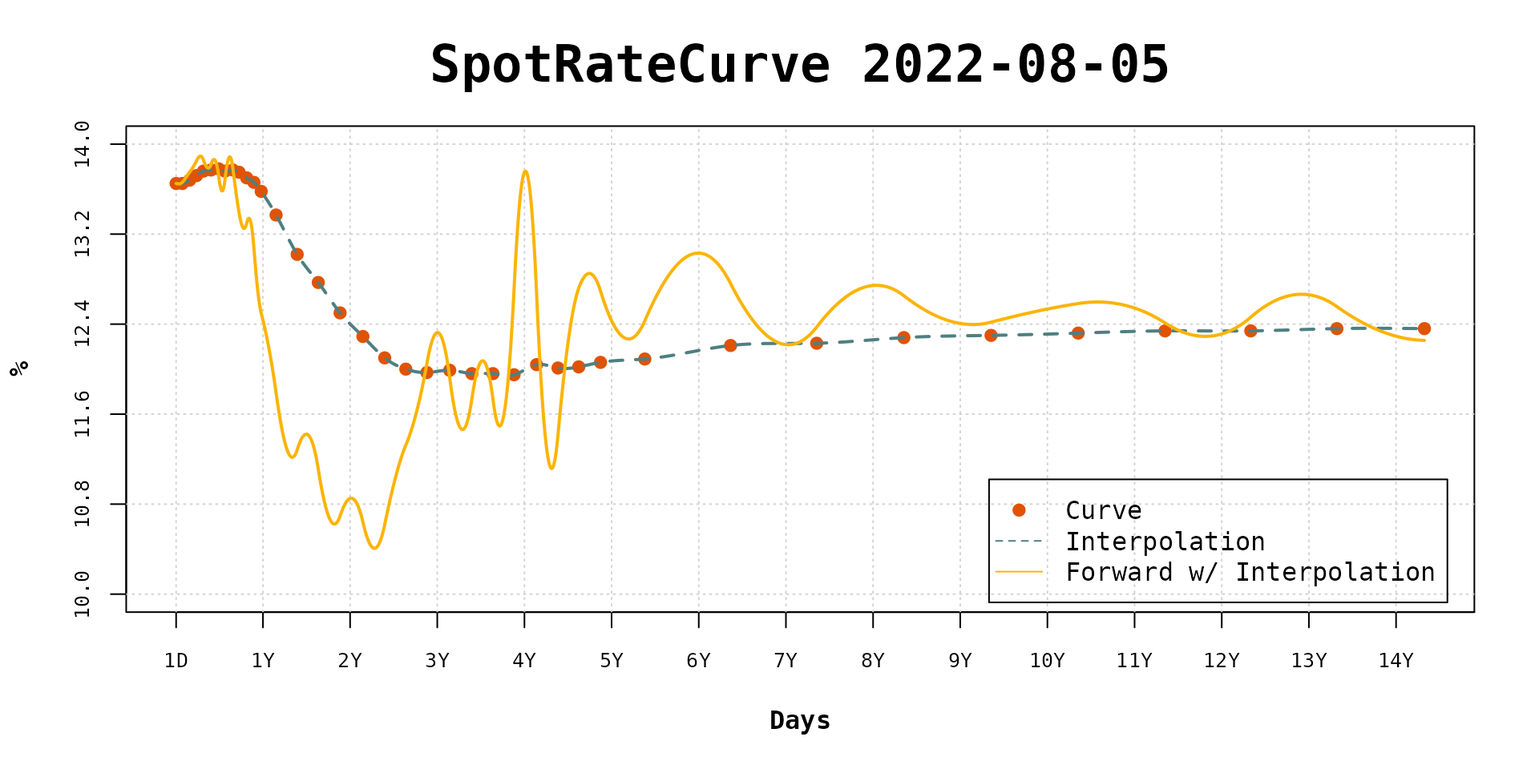
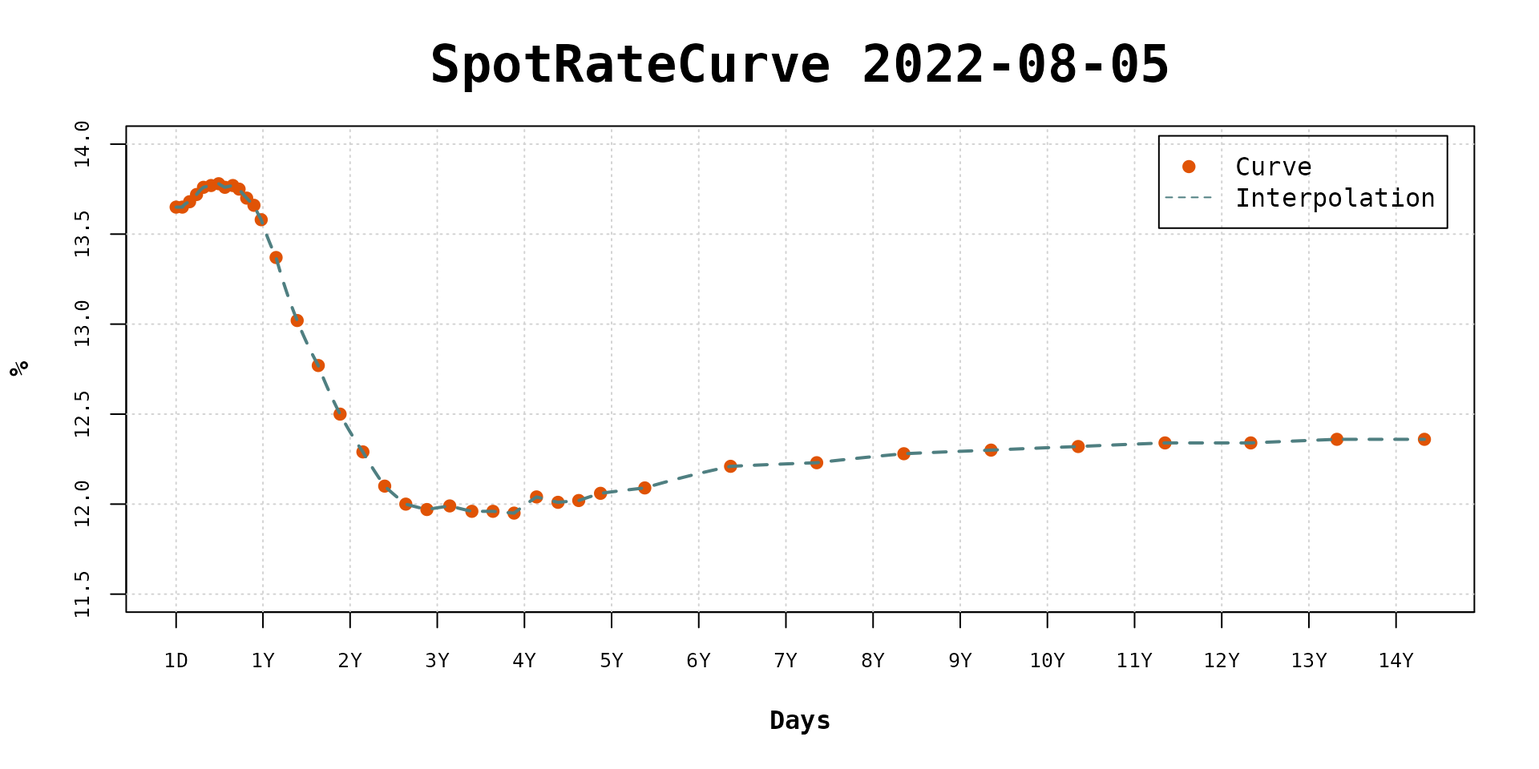
Deploying to gh-pages from @ wilsonfreitas/R-fixedincome@a56da4bb95baab74bc7aa71b4ea9df1efd53c39d 🚀

diff --git a/articles/spot-rate-curve-interpolation.html b/articles/spot-rate-curve-interpolation.html
@@ -246,11 +246,41 @@ previously.</p>
 <span><span class="co">#&gt; Reference date: 2022-08-05</span></span></code></pre></div>
 </div>
 <div class="section level2">
+<h2 id="shift-the-curve-with-basis-points">Shift the curve with basis points<a class="anchor" aria-label="anchor" href="#shift-the-curve-with-basis-points"></a>
+</h2>
+<p>A basis point (bp) is 0.01%, and rate changes are usually given in
+basis points. <code><a href="../reference/bps.html">bps()</a></code> creates basis points, and adding them
+to the curve shifts all its rates. The result is still a spot rate curve
+with the same terms and interpolation, so the interpolated rates also
+move.</p>
+<div class="sourceCode" id="cb8"><pre class="downlit sourceCode r">
+<code class="sourceCode R"><span><span class="va">shifted</span> <span class="op">&lt;-</span> <span class="va">sp_curve</span> <span class="op">+</span> <span class="fu"><a href="../reference/bps.html">bps</a></span><span class="op">(</span><span class="fl">50</span><span class="op">)</span></span>
+<span><span class="va">shifted</span><span class="op">[[</span><span class="fu"><a href="https://rdrr.io/r/base/c.html" class="external-link">c</a></span><span class="op">(</span><span class="fl">21</span>, <span class="fl">42</span>, <span class="fl">63</span><span class="op">)</span><span class="op">]</span><span class="op">]</span></span>
+<span><span class="co">#&gt;         SpotRateCurve</span></span>
+<span><span class="co">#&gt; 21 days        0.1415</span></span>
+<span><span class="co">#&gt; 42 days        0.1418</span></span>
+<span><span class="co">#&gt; 63 days        0.1423</span></span>
+<span><span class="co">#&gt; discrete business/252 Brazil/ANBIMA </span></span>
+<span><span class="co">#&gt; Reference date: 2022-08-05</span></span></code></pre></div>
+<p><code><a href="../reference/bps.html">as.bps()</a></code> shows the difference between two curves in
+basis points.</p>
+<div class="sourceCode" id="cb9"><pre class="downlit sourceCode r">
+<code class="sourceCode R"><span><span class="fu"><a href="../reference/bps.html">as.bps</a></span><span class="op">(</span><span class="va">shifted</span><span class="op">[[</span><span class="fu"><a href="https://rdrr.io/r/base/c.html" class="external-link">c</a></span><span class="op">(</span><span class="fl">21</span>, <span class="fl">42</span>, <span class="fl">63</span><span class="op">)</span><span class="op">]</span><span class="op">]</span> <span class="op">-</span> <span class="va">sp_curve</span><span class="op">[[</span><span class="fu"><a href="https://rdrr.io/r/base/c.html" class="external-link">c</a></span><span class="op">(</span><span class="fl">21</span>, <span class="fl">42</span>, <span class="fl">63</span><span class="op">)</span><span class="op">]</span><span class="op">]</span><span class="op">)</span></span>
+<span><span class="co">#&gt; [1] "50 bps" "50 bps" "50 bps"</span></span></code></pre></div>
+<p>A vector of basis points, one for each term, changes the shape of the
+curve. Here the short rates don’t move, and the long rates go up by up
+to 100 bps.</p>
+<div class="sourceCode" id="cb10"><pre class="downlit sourceCode r">
+<code class="sourceCode R"><span><span class="va">steeper</span> <span class="op">&lt;-</span> <span class="va">sp_curve</span> <span class="op">+</span> <span class="fu"><a href="../reference/bps.html">bps</a></span><span class="op">(</span><span class="fu"><a href="https://rdrr.io/r/base/seq.html" class="external-link">seq</a></span><span class="op">(</span><span class="fl">0</span>, <span class="fl">100</span>, length.out <span class="op">=</span> <span class="fu"><a href="https://rdrr.io/r/base/length.html" class="external-link">length</a></span><span class="op">(</span><span class="va">sp_curve</span><span class="op">)</span><span class="op">)</span><span class="op">)</span></span>
+<span><span class="fu"><a href="../reference/bps.html">as.bps</a></span><span class="op">(</span><span class="va">steeper</span> <span class="op">-</span> <span class="va">sp_curve</span><span class="op">)</span><span class="op">[</span><span class="fu"><a href="https://rdrr.io/r/base/c.html" class="external-link">c</a></span><span class="op">(</span><span class="fl">1</span>, <span class="fu"><a href="https://rdrr.io/r/base/length.html" class="external-link">length</a></span><span class="op">(</span><span class="va">sp_curve</span><span class="op">)</span><span class="op">)</span><span class="op">]</span></span>
+<span><span class="co">#&gt; [1] "0 bps"   "100 bps"</span></span></code></pre></div>
+</div>
+<div class="section level2">
 <h2 id="unset-interpolation">Unset interpolation<a class="anchor" aria-label="anchor" href="#unset-interpolation"></a>
 </h2>
 <p>Set interpolation to <code>NULL</code> to unset the
 interpolation.</p>
-<div class="sourceCode" id="cb8"><pre class="downlit sourceCode r">
+<div class="sourceCode" id="cb11"><pre class="downlit sourceCode r">
 <code class="sourceCode R"><span><span class="fu"><a href="../reference/interpolation.html">interpolation</a></span><span class="op">(</span><span class="va">sp_curve</span><span class="op">)</span> <span class="op">&lt;-</span> <span class="cn">NULL</span></span>
 <span><span class="va">sp_curve</span><span class="op">[[</span><span class="fu"><a href="https://rdrr.io/r/base/c.html" class="external-link">c</a></span><span class="op">(</span><span class="fl">21</span>, <span class="fl">42</span>, <span class="fl">63</span><span class="op">)</span><span class="op">]</span><span class="op">]</span></span>
 <span><span class="co">#&gt;         SpotRateCurve</span></span>
@@ -270,10 +300,10 @@ returned.</p>
 an argument <code>use_interpolation</code> that shows the interpolation
 together with the curve points. This argument defaults to
 <code>FALSE</code>.</p>
-<div class="sourceCode" id="cb9"><pre class="downlit sourceCode r">
+<div class="sourceCode" id="cb12"><pre class="downlit sourceCode r">
 <code class="sourceCode R"><span><span class="fu"><a href="../reference/interpolation.html">interpolation</a></span><span class="op">(</span><span class="va">sp_curve</span><span class="op">)</span> <span class="op">&lt;-</span> <span class="fu"><a href="../reference/interpolation-constructor.html">interp_flatforward</a></span><span class="op">(</span><span class="op">)</span></span>
 <span><span class="fu"><a href="https://rdrr.io/r/graphics/plot.default.html" class="external-link">plot</a></span><span class="op">(</span><span class="va">sp_curve</span>, use_interpolation <span class="op">=</span> <span class="cn">TRUE</span><span class="op">)</span></span></code></pre></div>
-<p><img src="spot-rate-curve-interpolation_files/figure-html/unnamed-chunk-10-1.png" class="r-plt" alt="" width="100%"></p>
+<p><img src="spot-rate-curve-interpolation_files/figure-html/unnamed-chunk-13-1.png" class="r-plt" alt="" width="100%"></p>
 <div class="section level3">
 <h3 id="forward-rates-with-and-without-interpolation-set">Forward rates with and without interpolation set<a class="anchor" aria-label="anchor" href="#forward-rates-with-and-without-interpolation-set"></a>
 </h3>
@@ -281,26 +311,26 @@ together with the curve points. This argument defaults to
 to calculate daily forward rates. Otherwise, it uses the forward rates
 between the curve terms. Set the <code>show_forward</code> argument to
 <code>TRUE</code> to show the forward rates.</p>
-<div class="sourceCode" id="cb10"><pre class="downlit sourceCode r">
+<div class="sourceCode" id="cb13"><pre class="downlit sourceCode r">
 <code class="sourceCode R"><span><span class="fu"><a href="../reference/interpolation.html">interpolation</a></span><span class="op">(</span><span class="va">sp_curve</span><span class="op">)</span> <span class="op">&lt;-</span> <span class="cn">NULL</span></span>
 <span><span class="fu"><a href="https://rdrr.io/r/graphics/plot.default.html" class="external-link">plot</a></span><span class="op">(</span><span class="va">sp_curve</span>, show_forward <span class="op">=</span> <span class="cn">TRUE</span>, legend_location <span class="op">=</span> <span class="st">"bottomright"</span><span class="op">)</span></span></code></pre></div>
-<p><img src="spot-rate-curve-interpolation_files/figure-html/unnamed-chunk-11-1.png" class="r-plt" alt="" width="100%"></p>
+<p><img src="spot-rate-curve-interpolation_files/figure-html/unnamed-chunk-14-1.png" class="r-plt" alt="" width="100%"></p>
 <p>The forward rates are drawn with step lines.</p>
 <p>If the <code>use_interpolation</code> argument is <code>TRUE</code>
 then the daily forward rates are calculated with the defined
 interpolation.</p>
-<div class="sourceCode" id="cb11"><pre class="downlit sourceCode r">
+<div class="sourceCode" id="cb14"><pre class="downlit sourceCode r">
 <code class="sourceCode R"><span><span class="fu"><a href="../reference/interpolation.html">interpolation</a></span><span class="op">(</span><span class="va">sp_curve</span><span class="op">)</span> <span class="op">&lt;-</span> <span class="fu"><a href="../reference/interpolation-constructor.html">interp_flatforward</a></span><span class="op">(</span><span class="op">)</span></span>
 <span><span class="fu"><a href="https://rdrr.io/r/graphics/plot.default.html" class="external-link">plot</a></span><span class="op">(</span><span class="va">sp_curve</span>, use_interpolation <span class="op">=</span> <span class="cn">TRUE</span>, show_forward <span class="op">=</span> <span class="cn">TRUE</span>, legend_location <span class="op">=</span> <span class="st">"bottomright"</span><span class="op">)</span></span></code></pre></div>
-<p><img src="spot-rate-curve-interpolation_files/figure-html/unnamed-chunk-12-1.png" class="r-plt" alt="" width="100%"></p>
+<p><img src="spot-rate-curve-interpolation_files/figure-html/unnamed-chunk-15-1.png" class="r-plt" alt="" width="100%"></p>
 <p>It is possible to note that the flat forward daily rates are fairly
 close to curve terms forward rates.</p>
 <p>As the interpolation changes its effects can be viewed in the forward
 rates dynamic.</p>
-<div class="sourceCode" id="cb12"><pre class="downlit sourceCode r">
+<div class="sourceCode" id="cb15"><pre class="downlit sourceCode r">
 <code class="sourceCode R"><span><span class="fu"><a href="../reference/interpolation.html">interpolation</a></span><span class="op">(</span><span class="va">sp_curve</span><span class="op">)</span> <span class="op">&lt;-</span> <span class="fu"><a href="../reference/interpolation-constructor.html">interp_naturalspline</a></span><span class="op">(</span><span class="op">)</span></span>
 <span><span class="fu"><a href="https://rdrr.io/r/graphics/plot.default.html" class="external-link">plot</a></span><span class="op">(</span><span class="va">sp_curve</span>, use_interpolation <span class="op">=</span> <span class="cn">TRUE</span>, show_forward <span class="op">=</span> <span class="cn">TRUE</span>, legend_location <span class="op">=</span> <span class="st">"bottomright"</span><span class="op">)</span></span></code></pre></div>
-<p><img src="spot-rate-curve-interpolation_files/figure-html/unnamed-chunk-13-1.png" class="r-plt" alt="" width="100%"></p>
+<p><img src="spot-rate-curve-interpolation_files/figure-html/unnamed-chunk-16-1.png" class="r-plt" alt="" width="100%"></p>
 </div>
 </div>
   </div>

diff --git a/reference/bps.html b/reference/bps.html
@@ -1,0 +1,153 @@
+<!DOCTYPE html>
+<!-- Generated by pkgdown: do not edit by hand --><html lang="en"><head><meta charset="UTF-8"><meta http-equiv="X-UA-Compatible" content="IE=edge"><meta name="viewport" content="width=device-width, initial-scale=1.0"><title>Basis points — bps • fixedincome</title><!-- favicons --><link rel="icon" type="image/png" sizes="48x48" href="../favicon-48x48.png"><link rel="icon" type="”image/svg+xml”" href="../favicon.svg"><link rel="apple-touch-icon" sizes="180x180" href="../apple-touch-icon.png"><link rel="icon" sizes="any" href="../favicon.ico"><link rel="manifest" href="../site.webmanifest"><!-- jquery --><script src="https://cdnjs.cloudflare.com/ajax/libs/jquery/3.7.1/jquery.min.js" integrity="sha512-v2CJ7UaYy4JwqLDIrZUI/4hqeoQieOmAZNXBeQyjo21dadnwR+8ZaIJVT8EE2iyI61OV8e6M8PP2/4hpQINQ/g==" crossorigin="anonymous" referrerpolicy="no-referrer"></script><!-- Bootstrap --><link href="https://cdnjs.cloudflare.com/ajax/libs/bootswatch/3.4.0/yeti/bootstrap.min.css" rel="stylesheet" crossorigin="anonymous"><script src="https://cdnjs.cloudflare.com/ajax/libs/twitter-bootstrap/3.4.1/js/bootstrap.min.js" integrity="sha256-nuL8/2cJ5NDSSwnKD8VqreErSWHtnEP9E7AySL+1ev4=" crossorigin="anonymous"></script><!-- bootstrap-toc --><link rel="stylesheet" href="../bootstrap-toc.css"><script src="../bootstrap-toc.js"></script><!-- Font Awesome icons --><link rel="stylesheet" href="https://cdnjs.cloudflare.com/ajax/libs/font-awesome/5.12.1/css/all.min.css" integrity="sha256-mmgLkCYLUQbXn0B1SRqzHar6dCnv9oZFPEC1g1cwlkk=" crossorigin="anonymous"><link rel="stylesheet" href="https://cdnjs.cloudflare.com/ajax/libs/font-awesome/5.12.1/css/v4-shims.min.css" integrity="sha256-wZjR52fzng1pJHwx4aV2AO3yyTOXrcDW7jBpJtTwVxw=" crossorigin="anonymous"><!-- clipboard.js --><script src="https://cdnjs.cloudflare.com/ajax/libs/clipboard.js/2.0.6/clipboard.min.js" integrity="sha256-inc5kl9MA1hkeYUt+EC3BhlIgyp/2jDIyBLS6k3UxPI=" crossorigin="anonymous"></script><!-- headroom.js --><script src="https://cdnjs.cloudflare.com/ajax/libs/headroom/0.11.0/headroom.min.js" integrity="sha256-AsUX4SJE1+yuDu5+mAVzJbuYNPHj/WroHuZ8Ir/CkE0=" crossorigin="anonymous"></script><script src="https://cdnjs.cloudflare.com/ajax/libs/headroom/0.11.0/jQuery.headroom.min.js" integrity="sha256-ZX/yNShbjqsohH1k95liqY9Gd8uOiE1S4vZc+9KQ1K4=" crossorigin="anonymous"></script><!-- pkgdown --><link href="../pkgdown.css" rel="stylesheet"><script src="../pkgdown.js"></script><meta property="og:title" content="Basis points — bps"><meta property="og:description" content="A basis point (bp) is 0.01%, or 0.0001.
+bps() creates a Bps object from a number of basis points, and
+as.bps() converts a rate difference, given as a decimal, to basis points.
+Bps extends numeric and keeps the value as a decimal, so
+as.numeric(bps(10)) is 0.001."><meta property="og:image" content="http://wilsonfreitas.github.io/R-fixedincome/logo.png"><!-- mathjax --><script src="https://cdnjs.cloudflare.com/ajax/libs/mathjax/2.7.5/MathJax.js" integrity="sha256-nvJJv9wWKEm88qvoQl9ekL2J+k/RWIsaSScxxlsrv8k=" crossorigin="anonymous"></script><script src="https://cdnjs.cloudflare.com/ajax/libs/mathjax/2.7.5/config/TeX-AMS-MML_HTMLorMML.js" integrity="sha256-84DKXVJXs0/F8OTMzX4UR909+jtl4G7SPypPavF+GfA=" crossorigin="anonymous"></script><!--[if lt IE 9]>
+<script src="https://oss.maxcdn.com/html5shiv/3.7.3/html5shiv.min.js"></script>
+<script src="https://oss.maxcdn.com/respond/1.4.2/respond.min.js"></script>
+<![endif]--></head><body data-spy="scroll" data-target="#toc">
+
+
+    <div class="container template-reference-topic">
+      <header><div class="navbar navbar-default navbar-fixed-top" role="navigation">
+  <div class="container">
+    <div class="navbar-header">
+      <button type="button" class="navbar-toggle collapsed" data-toggle="collapse" data-target="#navbar" aria-expanded="false">
+        <span class="sr-only">Toggle navigation</span>
+        <span class="icon-bar"></span>
+        <span class="icon-bar"></span>
+        <span class="icon-bar"></span>
+      </button>
+      <span class="navbar-brand">
+        <a class="navbar-link" href="../index.html">fixedincome</a>
+        <span class="version label label-default" data-toggle="tooltip" data-placement="bottom" title="">0.0.5</span>
+      </span>
+    </div>
+
+    <div id="navbar" class="navbar-collapse collapse">
+      <ul class="nav navbar-nav"><li>
+  <a href="../reference/index.html">Reference</a>
+</li>
+<li class="dropdown">
+  <a href="#" class="dropdown-toggle" data-toggle="dropdown" role="button" data-bs-toggle="dropdown" aria-expanded="false">
+    Articles
+
+    <span class="caret"></span>
+  </a>
+  <ul class="dropdown-menu" role="menu"><li>
+      <a href="../articles/spot-rate-curve-indexing.html">Spot Rate Curve Indexing</a>
+    </li>
+    <li>
+      <a href="../articles/spot-rate-curve-interpolation.html">Spot Rate Curve Interpolation</a>
+    </li>
+    <li>
+      <a href="../articles/spot-rate-curve-plotting.html">Plotting Spot Rate Curves</a>
+    </li>
+    <li>
+      <a href="../articles/term.html">Working with Terms</a>
+    </li>
+  </ul></li>
+<li>
+  <a href="../news/index.html">Changelog</a>
+</li>
+      </ul><ul class="nav navbar-nav navbar-right"><li>
+  <a href="https://github.com/wilsonfreitas/R-fixedincome/" class="external-link">
+    <span class="fab fa-github fa-lg"></span>
+
+  </a>
+</li>
+      </ul></div><!--/.nav-collapse -->
+  </div><!--/.container -->
+</div><!--/.navbar -->
+
+
+
+      </header><div class="row">
+  <div class="col-md-9 contents">
+    <div class="page-header">
+    <h1>Basis points</h1>
+    <small class="dont-index">Source: <a href="https://github.com/wilsonfreitas/R-fixedincome/blob/main/R/bps-class.R" class="external-link"><code>R/bps-class.R</code></a></small>
+    <div class="hidden name"><code>bps.Rd</code></div>
+    </div>
+
+    <div class="ref-description">
+    <p>A basis point (bp) is 0.01%, or 0.0001.
+<code>bps()</code> creates a <code>Bps</code> object from a number of basis points, and
+<code>as.bps()</code> converts a rate difference, given as a decimal, to basis points.
+<code>Bps</code> extends <code>numeric</code> and keeps the value as a decimal, so
+<code>as.numeric(bps(10))</code> is <code>0.001</code>.</p>
+    </div>
+
+    <div id="ref-usage">
+    <div class="sourceCode"><pre class="sourceCode r"><code><span><span class="fu">bps</span><span class="op">(</span><span class="va">x</span><span class="op">)</span></span>
+<span></span>
+<span><span class="fu">as.bps</span><span class="op">(</span><span class="va">x</span><span class="op">)</span></span></code></pre></div>
+    </div>
+
+    <div id="arguments">
+    <h2>Arguments</h2>
+
+
+<dl><dt id="arg-x">x<a class="anchor" aria-label="anchor" href="#arg-x"></a></dt>
+<dd><p>a numeric with the number of basis points (<code>bps()</code>), or a rate
+difference as a decimal, like a <code>SpotRate</code> spread (<code>as.bps()</code>).</p></dd>
+
+</dl></div>
+    <div id="value">
+    <h2>Value</h2>
+    <p>a <code>Bps</code> object.</p>
+    </div>
+    <div id="details">
+    <h2>Details</h2>
+    <p>Adding or subtracting basis points to a <code>SpotRate</code> (or a <code>SpotRateCurve</code>)
+returns the same object with the rates shifted; compounding, daycount,
+calendar, terms and interpolation are kept.
+Two <code>Bps</code> objects can be added or subtracted, and divided (returning a
+numeric). <code><a href="https://rdrr.io/r/base/c.html" class="external-link">c()</a></code> combines <code>Bps</code> objects.</p>
+    </div>
+
+    <div id="ref-examples">
+    <h2>Examples</h2>
+    <div class="sourceCode"><pre class="sourceCode r"><code><span class="r-in"><span><span class="fu">bps</span><span class="op">(</span><span class="fl">10</span><span class="op">)</span></span></span>
+<span class="r-out co"><span class="r-pr">#&gt;</span> [1] "10 bps"</span>
+<span class="r-in"><span><span class="fu"><a href="https://rdrr.io/r/base/numeric.html" class="external-link">as.numeric</a></span><span class="op">(</span><span class="fu">bps</span><span class="op">(</span><span class="fl">10</span><span class="op">)</span><span class="op">)</span></span></span>
+<span class="r-out co"><span class="r-pr">#&gt;</span> [1] 0.001</span>
+<span class="r-in"><span></span></span>
+<span class="r-in"><span><span class="va">sr</span> <span class="op">&lt;-</span> <span class="fu"><a href="spotrate.html">spotrate</a></span><span class="op">(</span><span class="fl">0.1375</span>, <span class="st">"discrete"</span>, <span class="st">"business/252"</span>, <span class="st">"Brazil/ANBIMA"</span><span class="op">)</span></span></span>
+<span class="r-in"><span><span class="va">sr</span> <span class="op">+</span> <span class="fu">bps</span><span class="op">(</span><span class="fl">10</span><span class="op">)</span></span></span>
+<span class="r-out co"><span class="r-pr">#&gt;</span> [1] "0.1385 discrete business/252 Brazil/ANBIMA"</span>
+<span class="r-in"><span><span class="va">sr</span> <span class="op">-</span> <span class="fu">bps</span><span class="op">(</span><span class="fu"><a href="https://rdrr.io/r/base/c.html" class="external-link">c</a></span><span class="op">(</span><span class="fl">10</span>, <span class="fl">25</span><span class="op">)</span><span class="op">)</span></span></span>
+<span class="r-out co"><span class="r-pr">#&gt;</span> [1] "0.1365 discrete business/252 Brazil/ANBIMA"</span>
+<span class="r-out co"><span class="r-pr">#&gt;</span> [2] "0.1350 discrete business/252 Brazil/ANBIMA"</span>
+<span class="r-in"><span></span></span>
+<span class="r-in"><span><span class="va">sr2</span> <span class="op">&lt;-</span> <span class="fu"><a href="spotrate.html">spotrate</a></span><span class="op">(</span><span class="fl">0.1325</span>, <span class="st">"discrete"</span>, <span class="st">"business/252"</span>, <span class="st">"Brazil/ANBIMA"</span><span class="op">)</span></span></span>
+<span class="r-in"><span><span class="fu">as.bps</span><span class="op">(</span><span class="va">sr</span> <span class="op">-</span> <span class="va">sr2</span><span class="op">)</span></span></span>
+<span class="r-out co"><span class="r-pr">#&gt;</span> [1] "50 bps"</span>
+<span class="r-in"><span></span></span>
+</code></pre></div>
+    </div>
+  </div>
+  <div class="col-md-3 hidden-xs hidden-sm" id="pkgdown-sidebar">
+    <nav id="toc" data-toggle="toc" class="sticky-top"><h2 data-toc-skip>Contents</h2>
+    </nav></div>
+</div>
+
+
+      <footer><div class="copyright">
+  <p></p><p>Developed by Wilson Freitas.</p>
+</div>
+
+<div class="pkgdown">
+  <p></p><p>Site built with <a href="https://pkgdown.r-lib.org/" class="external-link">pkgdown</a> 2.2.1.</p>
+</div>
+
+      </footer></div>
+
+
+
+
+
+
+  </body></html>
+

diff --git a/news/index.html b/news/index.html
@@ -73,6 +73,8 @@
 <code><a href="https://rdrr.io/r/base/c.html" class="external-link">c()</a></code> on <code>Term</code> objects keeps the units of each element; before, all elements took the units of the first one.</li>
 <li>Arithmetic (<code>+</code>, <code>-</code>, <code>%%</code>, <code>/</code>, <code>%/%</code>) and comparison between <code>Term</code> objects with the same units. Terms with different units raise an error asking to convert them first. (Issue <a href="https://github.com/wilsonfreitas/R-fixedincome/issues/28" class="external-link">#28</a>)</li>
 <li>New <code><a href="../reference/with_daycount.html">with_daycount()</a></code> evaluates operations between <code>Term</code> objects with different units using a daycount, e.g. <code>with_daycount("business/252", term(1, "month") + term(12, "days"))</code> gives 33 days. (Issue <a href="https://github.com/wilsonfreitas/R-fixedincome/issues/27" class="external-link">#27</a>)</li>
+<li>New <code>Bps</code> class for basis points: <code>bps(10)</code> is 0.001, <code><a href="../reference/bps.html">as.bps()</a></code> converts a rate difference, and <code><a href="https://rdrr.io/r/base/c.html" class="external-link">c()</a></code> combines them. Adding or subtracting <code>Bps</code> to a <code>SpotRate</code> or <code>SpotRateCurve</code> shifts the rates and keeps the other slots. (Issue <a href="https://github.com/wilsonfreitas/R-fixedincome/issues/33" class="external-link">#33</a>)</li>
+<li>Arithmetic on a <code>SpotRateCurve</code> with an interpolation now prepares the interpolation again; before, <code>curve + 0.01</code> kept returning the old rates from <code>[[</code>.</li>
 <li>
 <code>[[</code> and <code>[[&lt;-</code> on <code>SpotRateCurve</code> now convert <code>Term</code> objects to days before indexing. Before, <code>curve[[term(1, "years")]]</code> silently returned the rate at 1 day. (Issue <a href="https://github.com/wilsonfreitas/R-fixedincome/issues/22" class="external-link">#22</a>)</li>
 <li>

diff --git a/reference/SpotRate-class.html b/reference/SpotRate-class.html
@@ -134,7 +134,6 @@ years has the future value.</p>
 <span><span class="co">#&gt; 10 1.69 discrete business/252 Brazil/ANBIMA</span></span></code></pre><p></p></div>
 <p>once in a <code>data.frame</code>, dplyr verbs can be used to manipulate it.</p>
 <p></p><div class="sourceCode r"><pre><code><span><span class="kw"><a href="https://rdrr.io/r/base/library.html" class="external-link">require</a></span><span class="op">(</span><span class="va"><a href="https://dplyr.tidyverse.org" class="external-link">dplyr</a></span>, warn.conflicts <span class="op">=</span> <span class="cn">FALSE</span><span class="op">)</span></span>
-<span><span class="co">#&gt; Carregando pacotes exigidos: dplyr</span></span>
 <span></span>
 <span><span class="fu"><a href="https://rdrr.io/r/base/data.frame.html" class="external-link">data.frame</a></span><span class="op">(</span>spot_rate <span class="op">=</span> <span class="va">sr_vec</span><span class="op">)</span> <span class="op">|&gt;</span></span>
 <span>   <span class="fu"><a href="https://dplyr.tidyverse.org/reference/mutate.html" class="external-link">mutate</a></span><span class="op">(</span>comp <span class="op">=</span> <span class="fu"><a href="../reference/compound.html">compound</a></span><span class="op">(</span><span class="va">spot_rate</span>, <span class="fu"><a href="../reference/term.html">term</a></span><span class="op">(</span><span class="fl">5</span>, <span class="st">"months"</span><span class="op">)</span><span class="op">)</span><span class="op">)</span></span>

diff --git a/reference/index.html b/reference/index.html
@@ -89,6 +89,10 @@
           <p><code><a href="spotrate-compare-method.html">`&gt;=`(<i>&lt;SpotRate&gt;</i>,<i>&lt;SpotRate&gt;</i>)</a></code> <code><a href="spotrate-compare-method.html">`&lt;=`(<i>&lt;SpotRate&gt;</i>,<i>&lt;SpotRate&gt;</i>)</a></code> <code><a href="spotrate-compare-method.html">`&lt;`(<i>&lt;SpotRate&gt;</i>,<i>&lt;SpotRate&gt;</i>)</a></code> <code><a href="spotrate-compare-method.html">`&gt;`(<i>&lt;SpotRate&gt;</i>,<i>&lt;SpotRate&gt;</i>)</a></code> <code><a href="spotrate-compare-method.html">`==`(<i>&lt;SpotRate&gt;</i>,<i>&lt;SpotRate&gt;</i>)</a></code> <code><a href="spotrate-compare-method.html">`!=`(<i>&lt;SpotRate&gt;</i>,<i>&lt;SpotRate&gt;</i>)</a></code> <code><a href="spotrate-compare-method.html">Compare(<i>&lt;SpotRate&gt;</i>,<i>&lt;numeric&gt;</i>)</a></code> <code><a href="spotrate-compare-method.html">Compare(<i>&lt;numeric&gt;</i>,<i>&lt;SpotRate&gt;</i>)</a></code> </p>
         </td>
         <td><p>SpotRate comparison operations</p></td>
+      </tr><tr><td>
+          <p><code><a href="bps.html">bps()</a></code> <code><a href="bps.html">as.bps()</a></code> </p>
+        </td>
+        <td><p>Basis points</p></td>
       </tr></tbody><tbody><tr><th colspan="2">
           <h2 id="compounding">Compounding <a href="#compounding" class="anchor" aria-hidden="true"></a></h2>
           <p class="section-desc"></p>

diff --git a/reference/Arith,Bps,Bps-method.html b/reference/Arith,Bps,Bps-method.html
@@ -1,0 +1,8 @@
+<html>
+  <head>
+    <meta http-equiv="refresh" content="0;URL=http://wilsonfreitas.github.io/R-fixedincome/reference/hidden_aliases.html" />
+    <meta name="robots" content="noindex">
+    <link rel="canonical" href="http://wilsonfreitas.github.io/R-fixedincome/reference/hidden_aliases.html">
+  </head>
+</html>
+

diff --git a/reference/Arith,Bps,SpotRate-method.html b/reference/Arith,Bps,SpotRate-method.html
@@ -1,0 +1,8 @@
+<html>
+  <head>
+    <meta http-equiv="refresh" content="0;URL=http://wilsonfreitas.github.io/R-fixedincome/reference/hidden_aliases.html" />
+    <meta name="robots" content="noindex">
+    <link rel="canonical" href="http://wilsonfreitas.github.io/R-fixedincome/reference/hidden_aliases.html">
+  </head>
+</html>
+

diff --git a/reference/Arith,SpotRate,Bps-method.html b/reference/Arith,SpotRate,Bps-method.html
@@ -1,0 +1,8 @@
+<html>
+  <head>
+    <meta http-equiv="refresh" content="0;URL=http://wilsonfreitas.github.io/R-fixedincome/reference/hidden_aliases.html" />
+    <meta name="robots" content="noindex">
+    <link rel="canonical" href="http://wilsonfreitas.github.io/R-fixedincome/reference/hidden_aliases.html">
+  </head>
+</html>
+

diff --git a/reference/[,Bps,ANY,ANY-method.html b/reference/[,Bps,ANY,ANY-method.html
@@ -1,0 +1,8 @@
+<html>
+  <head>
+    <meta http-equiv="refresh" content="0;URL=http://wilsonfreitas.github.io/R-fixedincome/reference/hidden_aliases.html" />
+    <meta name="robots" content="noindex">
+    <link rel="canonical" href="http://wilsonfreitas.github.io/R-fixedincome/reference/hidden_aliases.html">
+  </head>
+</html>
+

diff --git a/reference/show,Bps-method.html b/reference/show,Bps-method.html
@@ -1,0 +1,8 @@
+<html>
+  <head>
+    <meta http-equiv="refresh" content="0;URL=http://wilsonfreitas.github.io/R-fixedincome/reference/hidden_aliases.html" />
+    <meta name="robots" content="noindex">
+    <link rel="canonical" href="http://wilsonfreitas.github.io/R-fixedincome/reference/hidden_aliases.html">
+  </head>
+</html>
+

diff --git a/reference/Bps-class.html b/reference/Bps-class.html
@@ -1,0 +1,8 @@
+<html>
+  <head>
+    <meta http-equiv="refresh" content="0;URL=http://wilsonfreitas.github.io/R-fixedincome/reference/bps.html" />
+    <meta name="robots" content="noindex">
+    <link rel="canonical" href="http://wilsonfreitas.github.io/R-fixedincome/reference/bps.html">
+  </head>
+</html>
+

diff --git a/reference/as.bps.html b/reference/as.bps.html
@@ -1,0 +1,8 @@
+<html>
+  <head>
+    <meta http-equiv="refresh" content="0;URL=http://wilsonfreitas.github.io/R-fixedincome/reference/bps.html" />
+    <meta name="robots" content="noindex">
+    <link rel="canonical" href="http://wilsonfreitas.github.io/R-fixedincome/reference/bps.html">
+  </head>
+</html>
+
